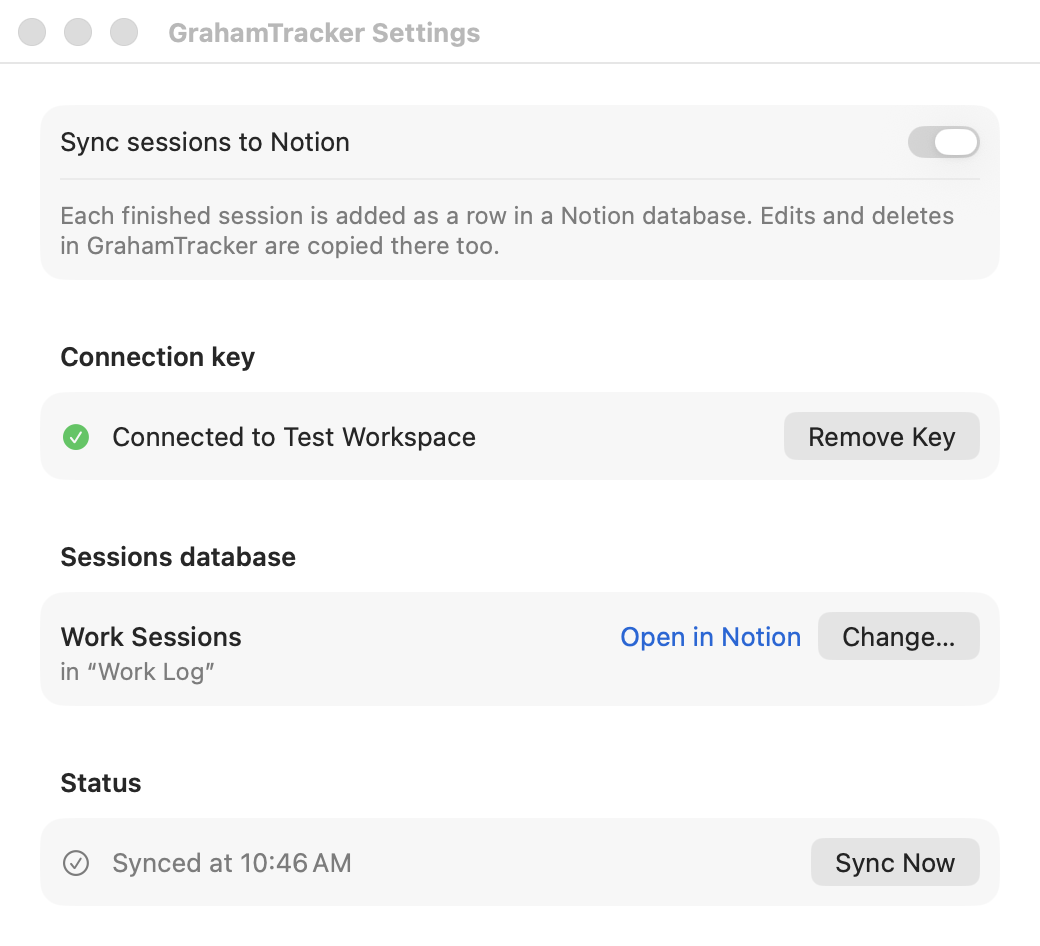
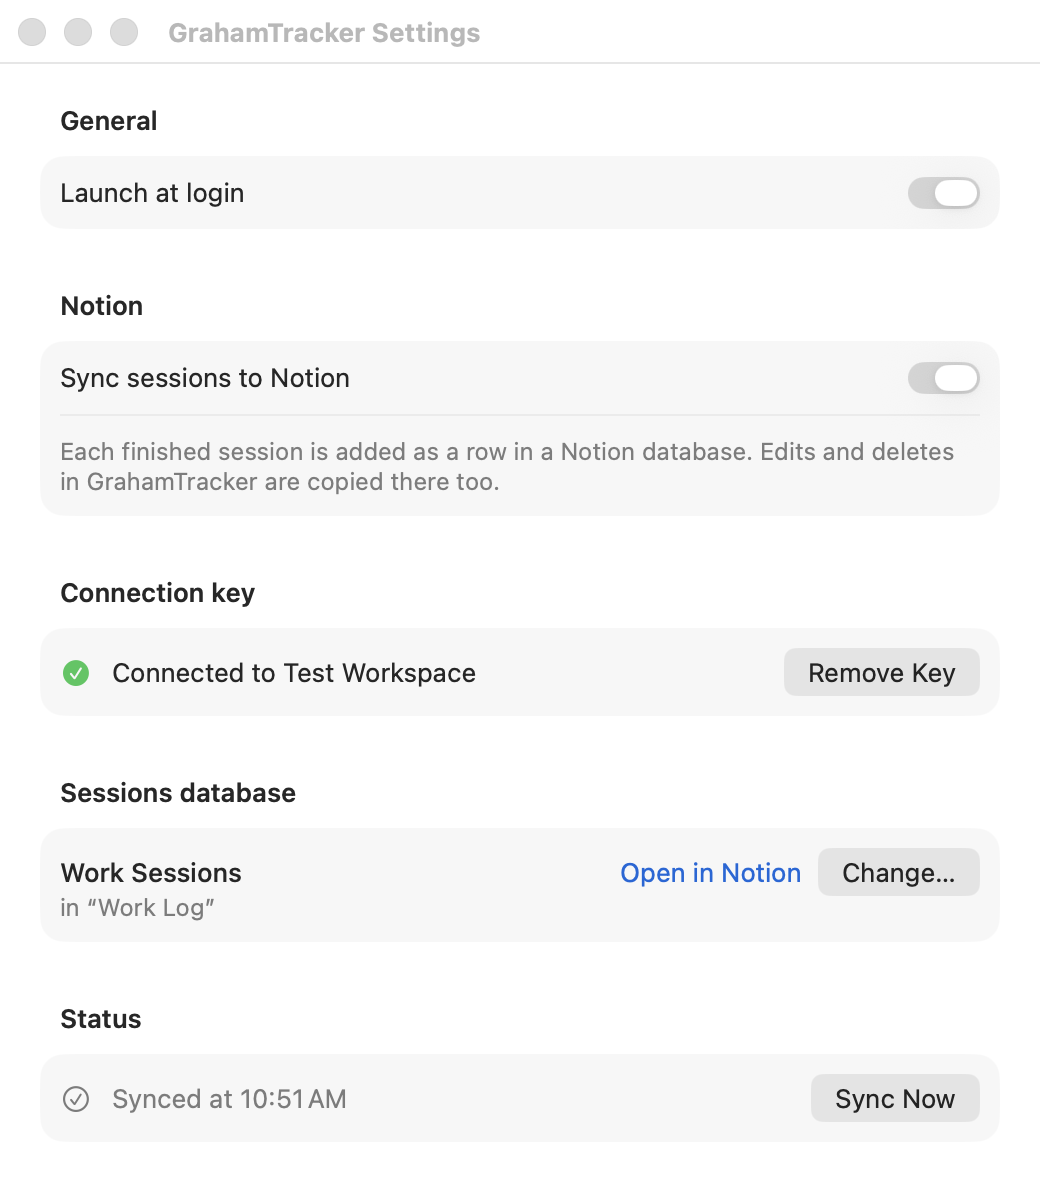
Move Launch at Login into Settings; clarify the Notion key is an internal integration secret

diff --git a/Sources/GrahamTracker/SettingsView.swift b/Sources/GrahamTracker/SettingsView.swift
@@ -1,3 +1,4 @@
+import ServiceManagement
 import SwiftUI
 
 struct SettingsView: View {
@@ -14,11 +15,25 @@ struct SettingsView: View {
     @State private var isCreating = false
     @State private var createError: String?
 
+    @State private var launchAtLogin = false
+    @State private var loginError: String?
+
     private static let integrationsURL = URL(string: "https://www.notion.so/profile/integrations")!
 
     var body: some View {
         Form {
-            Section {
+            Section("General") {
+                Toggle("Launch at login", isOn: Binding(get: { launchAtLogin }, set: setLaunchAtLogin))
+                if let loginError {
+                    Text(loginError).font(.callout).foregroundStyle(.red)
+                }
+            }
+            .onAppear(perform: refreshLaunchAtLogin)
+            .onReceive(NotificationCenter.default.publisher(for: NSWindow.didBecomeKeyNotification)) { _ in
+                refreshLaunchAtLogin()
+            }
+
+            Section("Notion") {
                 Toggle("Sync sessions to Notion", isOn: Binding(get: { sync.settings.enabled }, set: { sync.setEnabled($0) }))
                 Text("Each finished session is added as a row in a Notion database. Edits and deletes in GrahamTracker are copied there too.")
                     .font(.callout)
@@ -40,6 +55,26 @@ struct SettingsView: View {
         .fixedSize(horizontal: false, vertical: true)
     }
 
+    // MARK: - General
+
+    private func refreshLaunchAtLogin() {
+        launchAtLogin = SMAppService.mainApp.status == .enabled
+    }
+
+    private func setLaunchAtLogin(_ enabled: Bool) {
+        loginError = nil
+        do {
+            if enabled {
+                try SMAppService.mainApp.register()
+            } else {
+                try SMAppService.mainApp.unregister()
+            }
+        } catch {
+            loginError = error.localizedDescription
+        }
+        refreshLaunchAtLogin()
+    }
+
     // MARK: - Key
 
     @ViewBuilder
@@ -57,13 +92,13 @@ struct SettingsView: View {
                 }
             } else {
                 VStack(alignment: .leading, spacing: 6) {
-                    Text("1. In Notion, create a new **internal** connection (integration) for your workspace.")
-                    Text("2. Copy its secret and paste it here.")
+                    Text("1. Open Notion connections and click **New integration**. Pick your workspace and leave the type as **Internal**.")
+                    Text("2. Copy the **Internal Integration Secret** (it starts with `ntn_`) and paste it here. No OAuth setup is needed.")
                 }
                 .font(.callout)
                 Link("Open Notion connections…", destination: Self.integrationsURL)
                 HStack {
-                    SecureField("Key", text: $keyDraft, prompt: Text("Paste your key"))
+                    SecureField("Key", text: $keyDraft, prompt: Text("ntn_…"))
                         .labelsHidden()
                         .textFieldStyle(.roundedBorder)
                         .onSubmit(connect)

diff --git a/Sources/GrahamTracker/AppDelegate.swift b/Sources/GrahamTracker/AppDelegate.swift
@@ -139,9 +139,6 @@ final class AppDelegate: NSObject, NSApplicationDelegate, NSMenuDelegate {
         animationParent.submenu = animationMenu
         menu.addItem(animationParent)
 
-        let loginItem = item("Launch at Login", #selector(toggleLaunchAtLogin))
-        loginItem.state = SMAppService.mainApp.status == .enabled ? .on : .off
-        menu.addItem(loginItem)
         menu.addItem(item("Open Data Folder", #selector(openDataFolder)))
         menu.addItem(item("Settings…", #selector(openSettings), key: ","))
         menu.addItem(.separator())
@@ -243,20 +240,6 @@ final class AppDelegate: NSObject, NSApplicationDelegate, NSMenuDelegate {
         trackingAnimation = animation
         animationFrame = 0
         updateStatusItem()
-    }
-
-    @objc private func toggleLaunchAtLogin() {
-        do {
-            if SMAppService.mainApp.status == .enabled {
-                try SMAppService.mainApp.unregister()
-            } else {
-                try SMAppService.mainApp.register()
-            }
-        } catch {
-            let alert = NSAlert(error: error)
-            NSApp.activate()
-            alert.runModal()
-        }
     }
 
     @objc private func openDataFolder() {

diff --git a/README.md b/README.md
@@ -14,7 +14,7 @@ There are no projects, tasks, or tags. You're either working or you're not. Grah
 - **Editable session log**: every work session in a table. Fix start and end times, move sessions to another day, add sessions you forgot, or delete mistakes.
 - **Charts**: see your hours by day, week, month, or year.
 - **Auto-stop when you're away**: tracking stops on its own after 5 minutes with no keyboard or mouse activity, or when your Mac goes to sleep.
-- **Starts with your Mac**: launches automatically when you log in (you can turn this off).
+- **Starts with your Mac**: launches automatically when you log in (you can turn this off in Settings).
 - **Optional Notion sync**: copy your sessions into a Notion database, so you can see them from anywhere, or let other tools and AI assistants that use your Notion read them.
 
 <img src="docs/images/sessions.png" alt="Session log" width="720">
@@ -76,9 +76,8 @@ The icon tells you at a glance whether you're tracking:
 - **Start / Stop Tracking**: same as clicking the timer.
 - **Sessions & Charts…** (⌘L): opens the session log and charts window.
 - **Tracking Animation**: choose **Munching Cracker** (default), **Sparkles**, or **None** (a still icon).
-- **Launch at Login**: turn automatic start at login on or off.
 - **Open Data Folder**: shows where your history is saved.
-- **Settings…** (⌘,): set up Notion sync.
+- **Settings…** (⌘,): turn **Launch at login** on or off, and set up Notion sync.
 - **Notion status** and **Sync to Notion Now**: shown only when Notion sync is on.
 - **Quit GrahamTracker**: quits the app. If you're tracking, the session is saved first.
 
@@ -161,8 +160,8 @@ You don't need to sign in to Notion on your Mac. GrahamTracker uses a connection
 **To set it up:**
 
 1. Choose **Settings…** from the GrahamTracker menu and turn on **Sync sessions to Notion**.
-2. Click **Open Notion connections…**, create a new **internal** connection for your workspace, and copy its secret key.
-3. Paste the key into GrahamTracker and click **Connect**.
+2. Click **Open Notion connections…**, then **New integration**. Pick your workspace, leave the type as **Internal**, and save. Copy the **Internal Integration Secret** (it starts with `ntn_`). You don't need anything from the OAuth or "public integration" settings.
+3. Paste the secret into GrahamTracker and click **Connect**.
 4. In Notion, open the page where your sessions should live (or create a new one). Click **•••** in the top-right corner, choose **Connections**, and add the connection you just made.
 5. Back in GrahamTracker, click the refresh button, choose that page, and click **Create Database**.
 
